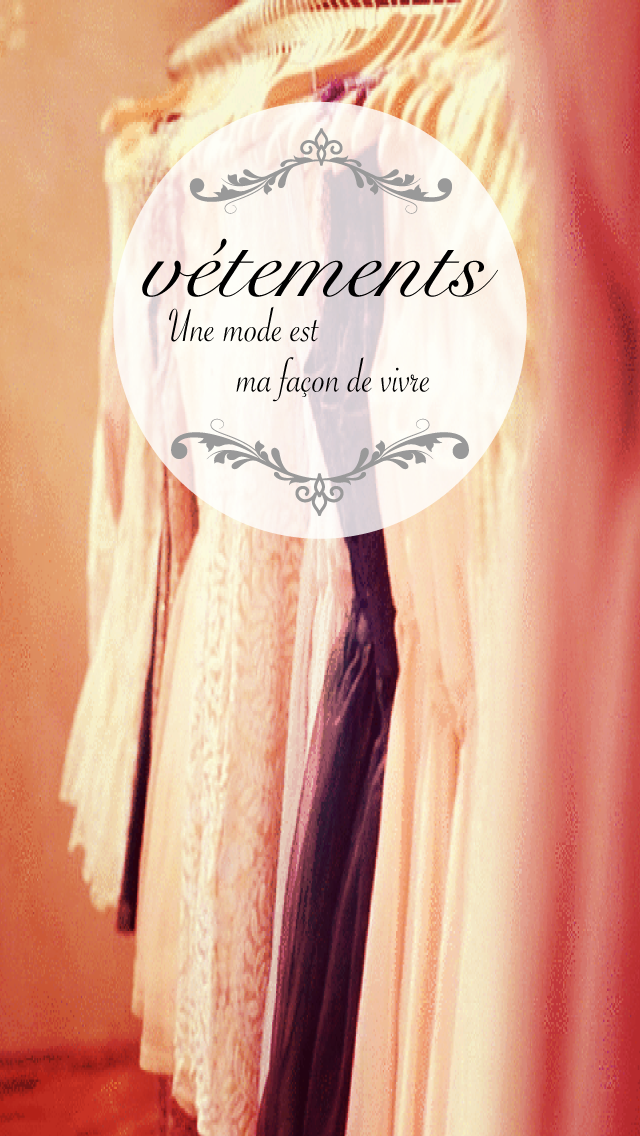
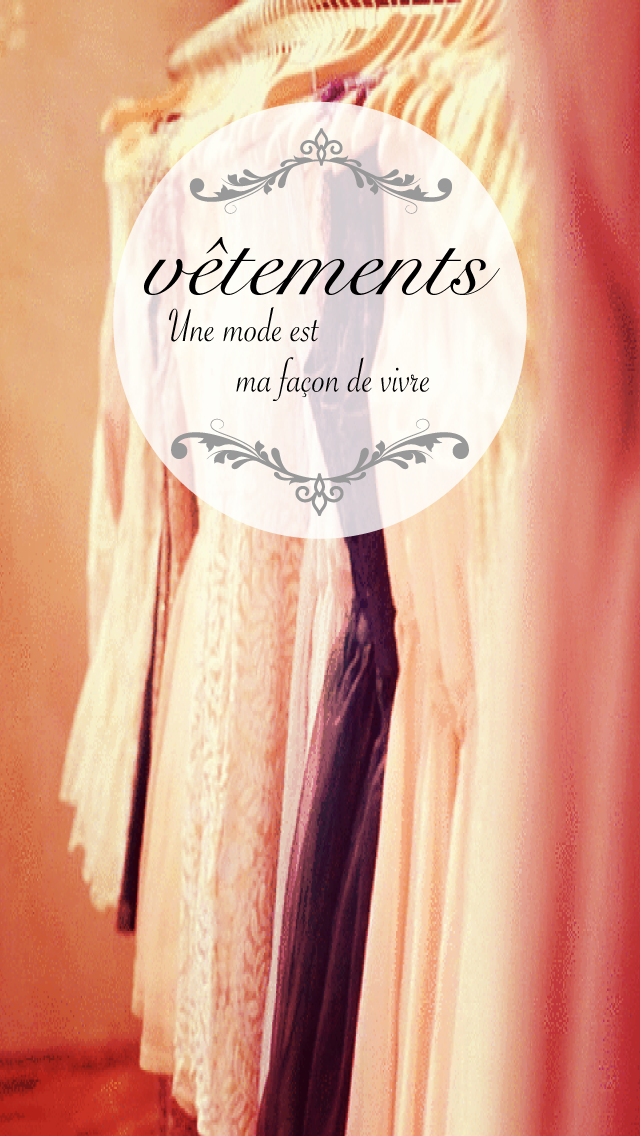
二回目の申請！

Changed region(s): [[0.25, 0.2157, 0.7812, 0.2773], [0.2188, 0.2465, 0.25, 0.2773]]

diff --git a/original app/ViewController.m b/original app/ViewController.m
@@ -62,7 +62,7 @@
     deleteArray = [[NSMutableArray alloc]init];
     
     //MARK:logo
- [self setNavigationBarTitleImage:[UIImage imageNamed:@"vétements-logo2.png"]];
+ [self setNavigationBarTitleImage:[UIImage imageNamed:@"vétements-logo.png"]];
     
     
     UIBarButtonItem *doneButton = [[UIBarButtonItem alloc] initWithImage:[[UIImage imageNamed:@"checkbox.png"] imageWithRenderingMode:UIImageRenderingModeAlwaysOriginal]

diff --git a/original app/TableViewController.m b/original app/TableViewController.m
@@ -76,7 +76,7 @@
     
     
     //MARK:logo
-    [self setNavigationBarTitleImage:[UIImage imageNamed:@"vétements-logo2.png"]];
+    [self setNavigationBarTitleImage:[UIImage imageNamed:@"vétements-logo.png"]];
     
     
     brandnameArray = [NSMutableArray array];
